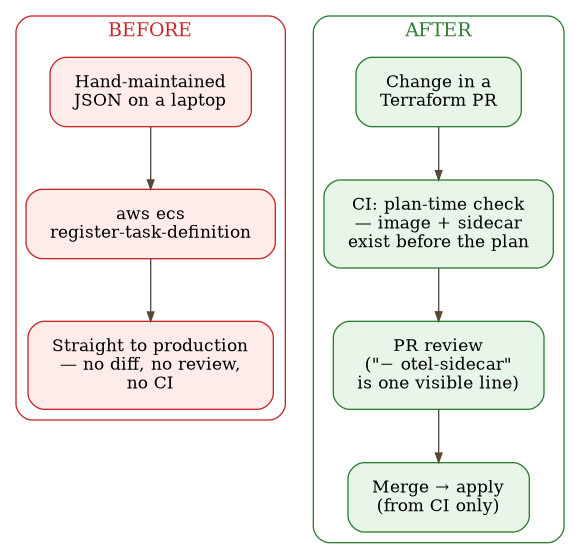
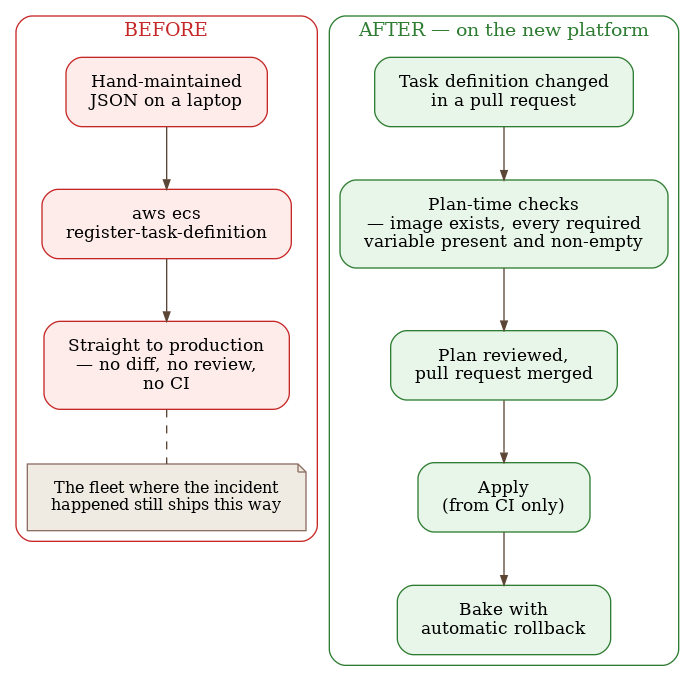
Poglavlje 29: dijagram pre/posle prikazuje stvarno stanje
- desna kolona je sada nova platforma: provere u fazi plana (image postoji, obavezne
  promenljive prisutne i neprazne), apply iz CI-ja, period posmatranja sa rollback-om
- uklonjena tvrdnja da se u fazi plana proverava sidecar (ta provera nije izgrađena)
- napomena da flota na kojoj se incident desio i dalje ide levim putem
- slika premeštena u odeljak 'Dva meseca kasnije', potpis usklađen (SR + EN)

Claude-Session: https://claude.ai/code/session_01Fmf4bcLWtJ7mETsFKFGYds

Changed region(s): [[0.0, 0.0, 0.9931, 1.0]]

diff --git a/scripts/diagrams/ch29_cicd_drift.py b/scripts/diagrams/ch29_cicd_drift.py
@@ -46,14 +46,16 @@ TEXT = {
         },
         "pipeline": {
             "title_before": "PRE",
-            "title_after": "POSLE",
+            "title_after": "POSLE — na novoj platformi",
             "b1": "Ručno održavan\nJSON na laptopu",
             "b2": "aws ecs\nregister-task-definition",
             "b3": "Direktno u produkciju\n— nema diff-a, nema\nrevizije, nema CI-ja",
-            "a1": "Izmena u\nTerraform PR-u",
-            "a2": "CI: plan-time provera\n— image + sidecar\npostoje pre plana",
-            "a3": "PR review\n(\"− otel-sidecar\"\nje jedna vidljiva linija)",
-            "a4": "Merge → apply\n(samo iz CI-ja)",
+            "a1": "Izmena task definicije\nu pull request-u",
+            "a2": "Provere u fazi plana\n— image postoji, svaka obavezna\npromenljiva prisutna i neprazna",
+            "a3": "Plan pregledan,\npull request spojen",
+            "a4": "Apply\n(samo iz CI-ja)",
+            "a5": "Period posmatranja\nsa automatskim rollback-om",
+            "note": "Flota na kojoj se incident\ndesio i dalje ide ovim putem",
         },
     },
     "en": {
@@ -68,14 +70,16 @@ TEXT = {
         },
         "pipeline": {
             "title_before": "BEFORE",
-            "title_after": "AFTER",
+            "title_after": "AFTER — on the new platform",
             "b1": "Hand-maintained\nJSON on a laptop",
             "b2": "aws ecs\nregister-task-definition",
             "b3": "Straight to production\n— no diff, no review,\nno CI",
-            "a1": "Change in a\nTerraform PR",
-            "a2": "CI: plan-time check\n— image + sidecar\nexist before the plan",
-            "a3": "PR review\n(\"− otel-sidecar\"\nis one visible line)",
-            "a4": "Merge → apply\n(from CI only)",
+            "a1": "Task definition changed\nin a pull request",
+            "a2": "Plan-time checks\n— image exists, every required\nvariable present and non-empty",
+            "a3": "Plan reviewed,\npull request merged",
+            "a4": "Apply\n(from CI only)",
+            "a5": "Bake with\nautomatic rollback",
+            "note": "The fleet where the incident\nhappened still ships this way",
         },
     },
 }
@@ -124,8 +128,11 @@ def render_pipeline(lang: str):
         c.node("b1", t["b1"], fillcolor=FILL_BAD, color=LINE_BAD)
         c.node("b2", t["b2"], fillcolor=FILL_BAD, color=LINE_BAD)
         c.node("b3", t["b3"], fillcolor=FILL_BAD, color=LINE_BAD)
+        c.node("bnote", t["note"], shape="note", fillcolor=FILL_NOTE, color=LINE_NOTE,
+               fontsize="12")
         c.edge("b1", "b2")
         c.edge("b2", "b3")
+        c.edge("b3", "bnote", style="dashed", arrowhead="none")
 
     with g.subgraph(name="cluster_after") as c:
         c.attr(label=t["title_after"], style="rounded", color=LINE_GOOD,
@@ -136,7 +143,9 @@ def render_pipeline(lang: str):
         c.node("a4", t["a4"], fillcolor=FILL_GOOD, color=LINE_GOOD)
         c.edge("a1", "a2")
         c.edge("a2", "a3")
+        c.node("a5", t["a5"], fillcolor=FILL_GOOD, color=LINE_GOOD)
         c.edge("a3", "a4")
+        c.edge("a4", "a5")
 
     out_path = OUT_DIR / f"ch29-pre-posle-cevovod{suffix}.png"
     out_path.parent.mkdir(parents=True, exist_ok=True)

diff --git a/docs/poglavlje-29-cicd-infrastruktura.en.md b/docs/poglavlje-29-cicd-infrastruktura.en.md
@@ -157,8 +157,6 @@ closed case study with a perfect ending — it's a live, ongoing process, and sa
 plainly is more honest than polishing it. A later section returns to this ledger two
 months in.
 
-![Before: a hand-maintained JSON registered straight to production, with no diff and no CI. After: the change goes through a PR, a plan-time check that the image exists, review, and only then merge and apply — from CI alone.](diagrams/ch29-pre-posle-cevovod.en.png){: width="92%" }
-
 ### Nine days later: the same kind of error, one layer up
 
 The part that makes this chapter worth a second look instead of a one-time close: nine
@@ -272,6 +270,8 @@ in Terraform, every deploy through the pipeline, no manual steps. Concretely:
 
 One limit is worth stating right next to that: the bake only sees what the check
 exercises. A release that breaks a route the check never calls still bakes in silence.
+
+![Before: a hand-maintained JSON registered straight to production, with no diff and no CI — the path the fleet where the incident happened still takes. After, on the new platform: the task definition changes in a pull request, plan-time checks confirm the image exists and every required variable is present and non-empty, the plan is reviewed and merged, the apply runs from CI alone, and a bake follows with automatic rollback.](diagrams/ch29-pre-posle-cevovod.en.png){: width="92%" }
 
 ### The same trap, caught at plan time this time
 

diff --git a/docs/poglavlje-29-cicd-infrastruktura.md b/docs/poglavlje-29-cicd-infrastruktura.md
@@ -158,8 +158,6 @@ zatvorena studija slučaja sa savršenim krajem — to je živ, tekući proces, 
 reći direktno nego uglancati. Jedan od narednih odeljaka vraća se ovom bilansu posle dva
 meseca.
 
-![Pre: ručno održavan JSON registrovan direktno u produkciju, bez diff-a i CI-ja. Posle: izmena ide kroz PR, plan-time proveru postojanja image-a, review, i tek onda merge i apply — samo iz CI-ja.](diagrams/ch29-pre-posle-cevovod.png){: width="92%" }
-
 ### Devet dana kasnije: ista vrsta greške, jedan sloj iznad
 
 Deo koji ovo poglavlje čini vrednim ponovnog pogleda umesto jednokratnog zatvaranja:
@@ -274,6 +272,8 @@ ručnih koraka. Konkretno:
 
 Uz to vredi odmah navesti i jednu granicu: period posmatranja vidi samo ono što provera
 poziva. Izdanje koje pokvari rutu koju provera nikad ne pozove i dalje prolazi u tišini.
+
+![Pre: ručno održavan JSON registrovan direktno u produkciju, bez diff-a i CI-ja — put kojim flota na kojoj se incident desio i dalje ide. Posle, na novoj platformi: task definicija se menja u pull request-u, provere u fazi plana potvrđuju da image postoji i da je svaka obavezna promenljiva prisutna i neprazna, plan se pregleda i spaja, apply ide samo iz CI-ja, a zatim sledi period posmatranja sa automatskim rollback-om.](diagrams/ch29-pre-posle-cevovod.png){: width="92%" }
 
 ### Ista zamka, ovog puta uhvaćena u fazi plana
 
